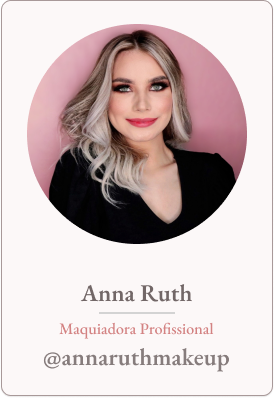
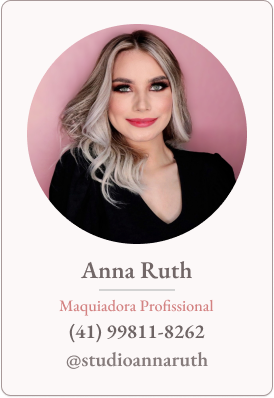
Depoimentos

Changed region(s): [[0.146, 0.6332, 0.8467, 0.9347]]

diff --git a/index.html b/index.html
@@ -1,7 +1,7 @@
 <!DOCTYPE html>
 <html lang="pt-br">
 <head>
-  <title>Anna Ruth Maquiadora Profissional em Curitiba</title>
+  <title>Anna Ruth | Maquiadora Profissional</title>
   <meta name="description" content="maquiadora"> <!-- ALTERAR CONTENT -->
   <meta charset="utf-8">
   <meta name="viewport" content="width=device-width, initial-scale=1.0">
@@ -35,17 +35,15 @@
     </div>
     <div class="home">
       <div class="coluna-2">
-        <a href="https://www.instagram.com/annaruthmakeup/" target="_blank">
+        <a href="https://www.instagram.com/studioannaruth/" target="_blank">
           <img class="perfil" src="img/perfil-completo.png">
         </a>
       </div>
       <div class="coluna-1">
         <h2>QUEM SOU EU</h2>
-        <p class="sobre-mim">Lorem ipsum morbi primis libero porta 
-          porttitor interdum morbi curabitur fermentum 
-          semper ultricies, aliquam suscipit nisi malesuada 
-          suscipit praesent fermentum vivamus maecenas 
-          nisl volutpat interdum fringilla, tortor donec variusrat
+        <p class="sobre-mim">Olá, bem vindo (a) ao meu site, me chamo Anna Ruth, sou maquiadora profissional há mais de 5 anos. 
+          Minha motivação para trabalhar com maquiagem é realçar a beleza existente na mulher, de dentro para fora, evidenciando a sua beleza.
+          Ofereço serviços de maquiagem social e penteados, além de, pacotes especiais para debutantes e noivas.
         </p>
         <a href="https://api.whatsapp.com/send?phone=5541998118162&text=Ol%C3%A1%2C%20gostaria%20de%20solicitar%20um%20or%C3%A7amento%20para%20maquiagem." target="_blank">
           <button class="btn-contato">CONVERSAR NO WHATSAPP</button>
@@ -55,6 +53,29 @@
     <div class="portfolio">
       <h2>PORTFÓLIO</h2>
       <img class="linha-img" src="img/portfolio/linhas-portfolio.png">
+    </div>
+    <div class="imagens-portfolio">
+
+    </div>
+    <div class="portfolio">
+      <h2>DEPOIMENTOS</h2>
+      <img class="linha-img" src="img/portfolio/linhas-portfolio.png">
+    </div>
+    <div class="depoimentos">
+      <div class="depoimento1">
+        <img src="img/depoimentos/depoimento1.png" class="img-depoimento">
+      </div>
+      <div class="depoimento2">
+        <img src="img/depoimentos/depoimento2.png" class="img-depoimento">
+      </div>
+    </div>
+    <div class="depoimentos">
+      <div class="depoimento1">
+        <img src="img/depoimentos/depoimento3.png" class="img-depoimento">
+      </div>
+      <div class="depoimento2">
+        <img src="img/depoimentos/depoimento1.png" class="img-depoimento">
+      </div>
     </div>
   </main>
 </body>

diff --git a/css/style.css b/css/style.css
@@ -138,7 +138,7 @@ h2 {
 
 .coluna-1{
   width: 430px;
-  height: 265px;
+  height: 300px;
   padding-top: 5px;
   padding-left: 20px;
   padding-right: 20px;
@@ -160,11 +160,11 @@ h2 {
   font-family: EB Garamond;
   color: #867f7f;
   font-size: 16px;
-  padding-bottom: 25px;
+  padding-bottom: 15px;
 }
 
 .btn-contato{
-  padding: 12px 20px;
+  padding: 20px 20px;
   border-radius: 8px;
   border: none;
   background-color: #92C58A;
@@ -180,6 +180,7 @@ h2 {
 .portfolio{
   text-align: center;
   padding-top: 20px;
+  padding-bottom: 30px;
 }
 
 .portfolio h2{
@@ -187,6 +188,27 @@ h2 {
   font-size: 20px;
   font-weight: 100px;
 }
+
+.depoimentos{
+  display: flex;
+  align-items: center;
+  flex-wrap: wrap;
+  padding-top: 20px;
+  gap: 10px;
+  max-width: 1000px;
+  margin-left: auto;
+  margin-right: auto;
+}
+
+.depoimento1{
+  padding: 5px;
+}
+
+
+
+
+
+
 
 
 
